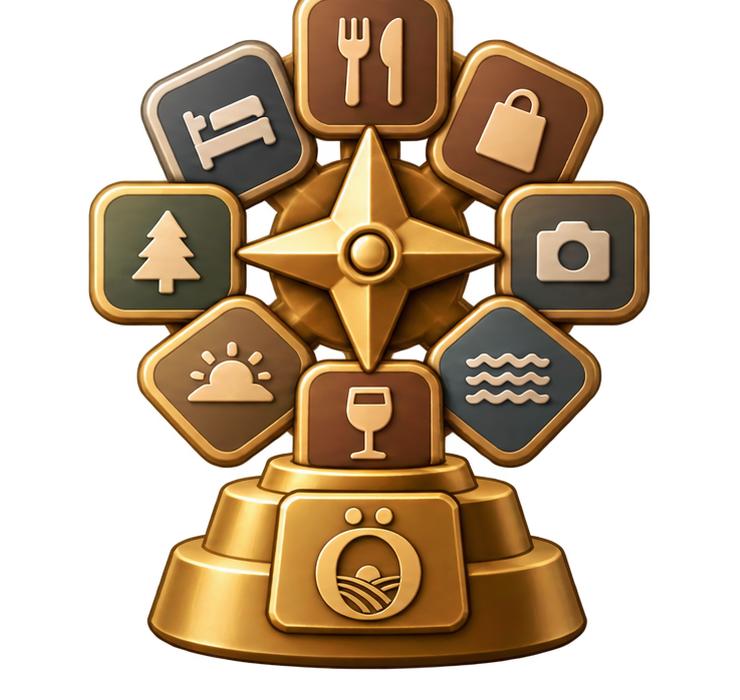
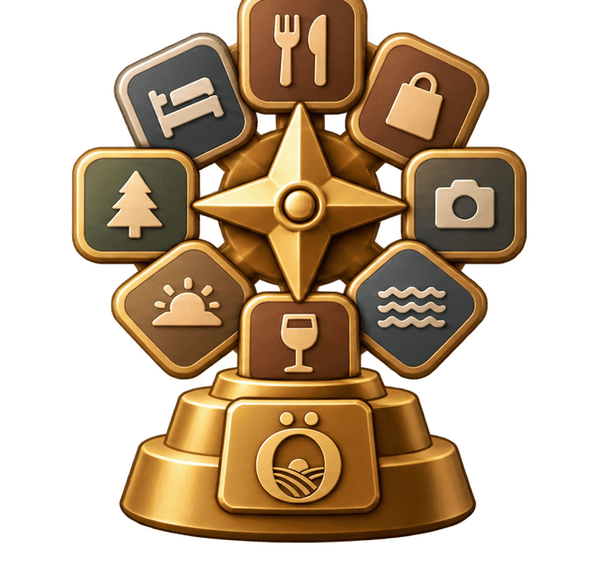
Lättare bilder: korten som JPG i rätt storlek (47 MB → 1,9 MB) och troféerna packade med färgpalett (14 MB → 2,2 MB), utan synlig skillnad. Skript för nya kort i scripts/.

Changed region(s): [[0.48, 0.8081, 0.54, 0.868]]

diff --git a/src/lib/cardVariants.ts b/src/lib/cardVariants.ts
@@ -4,11 +4,10 @@
  * Varje variant definierar bakgrundsfärger och om kortet är ljust eller mörkt.
  * cardColors() returnerar rätt text- och accentfärger automatiskt.
  *
- * Arbetsflöde för att lägga till PNG-bakgrund:
- *   1. Skapa design i Figma (utan rundade hörn)
- *   2. Exportera som PNG card-<id>.png + card-<id>@2x.png + card-<id>@3x.png
- *      till assets/cards/ (samma mapp, inte undermappar per id)
- *   3. Sätt bgImage: require("../../assets/cards/card-<id>.png") på varianten
+ * Arbetsflöde för att lägga till en bakgrundsbild:
+ *   1. Skapa designen i Figma (utan rundade hörn) och exportera den stort, minst 1260 punkter bred
+ *   2. Kör scripts/resize-card-images.js: den gör card-<id>.jpg, @2x och @3x i assets/cards/
+ *   3. Sätt bgImage: require("../../assets/cards/card-<id>.jpg") på varianten
  *      — RN hittar @2x/@3x-filerna automatiskt och väljer rätt upplösning
  *      efter skärmens pixeltäthet.
  */
@@ -19,7 +18,7 @@ export type CardVariant = {
   bg: string;        // Primär bakgrundsfärg (alltid solid fallback)
   bg2: string;       // Sekundär färg (gradient-ände)
   glow?: string;     // Radial-glow, rgba-sträng
-  bgImage?: any;     // require()'d PNG – sätts när Figma-bild finns
+  bgImage?: any;     // require()'d bild – sätts när Figma-bild finns
   light: boolean;    // true = ljust kort → mörk text
 };
 
@@ -72,7 +71,7 @@ export const CARD_VARIANTS: CardVariant[] = [
     bg:  "#2A3F29",
     bg2: "#1B3120",
     glow: "rgba(50,160,70,0.16)",
-    bgImage: require("../../assets/cards/card-forest.png"),
+    bgImage: require("../../assets/cards/card-forest.jpg"),
     light: false,
   },
   {
@@ -80,7 +79,7 @@ export const CARD_VARIANTS: CardVariant[] = [
     name: "Rapsfält",
     bg:  "#CB9E26",
     bg2: "#C59720",
-    bgImage: require("../../assets/cards/card-rapeseed.png"),
+    bgImage: require("../../assets/cards/card-rapeseed.jpg"),
     light: true,
   },
   {
@@ -88,7 +87,7 @@ export const CARD_VARIANTS: CardVariant[] = [
     name: "Hav",
     bg:  "#2E526A",
     bg2: "#1E4159",
-    bgImage: require("../../assets/cards/card-ocean.png"),
+    bgImage: require("../../assets/cards/card-ocean.jpg"),
     light: false,
   },
   {
@@ -96,7 +95,7 @@ export const CARD_VARIANTS: CardVariant[] = [
     name: "Druvor",
     bg:  "#48141C",
     bg2: "#3D0E16",
-    bgImage: require("../../assets/cards/card-grapes.png"),
+    bgImage: require("../../assets/cards/card-grapes.jpg"),
     light: false,
   },
   {
@@ -104,7 +103,7 @@ export const CARD_VARIANTS: CardVariant[] = [
     name: "Obsidian",
     bg:  "#191918",
     bg2: "#111111",
-    bgImage: require("../../assets/cards/card-obsidian.png"),
+    bgImage: require("../../assets/cards/card-obsidian.jpg"),
     light: false,
   },
   {
@@ -112,7 +111,7 @@ export const CARD_VARIANTS: CardVariant[] = [
     name: "Koppar",
     bg:  "#532A16",
     bg2: "#4D2613",
-    bgImage: require("../../assets/cards/card-copper.png"),
+    bgImage: require("../../assets/cards/card-copper.jpg"),
     light: false,
   },
   {
@@ -120,7 +119,7 @@ export const CARD_VARIANTS: CardVariant[] = [
     name: "Sand",
     bg:  "#CCB69B",
     bg2: "#C5AD91",
-    bgImage: require("../../assets/cards/card-sand.png"),
+    bgImage: require("../../assets/cards/card-sand.jpg"),
     light: true,
   },
 ];

diff --git a/scripts/resize-card-images.js b/scripts/resize-card-images.js
@@ -1,0 +1,20 @@
+// Kortens bakgrundsbilder i rätt storlek: kör från en tillfällig mapp med sharp@0.33.5 installerat,
+//   node resize-card-images.js <stor-bild.png> <id> <appens sökväg>/assets/cards
+// Ger card-<id>.jpg, card-<id>@2x.jpg och card-<id>@3x.jpg (420, 840 och 1260 punkter breda).
+// Ett kort visas som mest ungefär 400 punkter brett, så större bilder gör bara appen tyngre. Korten
+// har inga genomskinliga delar, därför JPG: en tjugondel av PNG-storleken utan synlig skillnad.
+const path = require("path");
+const sharp = require("sharp");
+
+const [src, id, out] = process.argv.slice(2);
+if (!src || !id || !out) {
+  console.error("node resize-card-images.js <stor-bild.png> <id> <assets/cards>");
+  process.exit(1);
+}
+(async () => {
+  for (const [suffix, width] of [["", 420], ["@2x", 840], ["@3x", 1260]]) {
+    const file = path.join(out, `card-${id}${suffix}.jpg`);
+    await sharp(src).resize({ width, kernel: "lanczos3" }).jpeg({ quality: 88, mozjpeg: true, chromaSubsampling: "4:4:4" }).toFile(file);
+    console.log(file);
+  }
+})();
